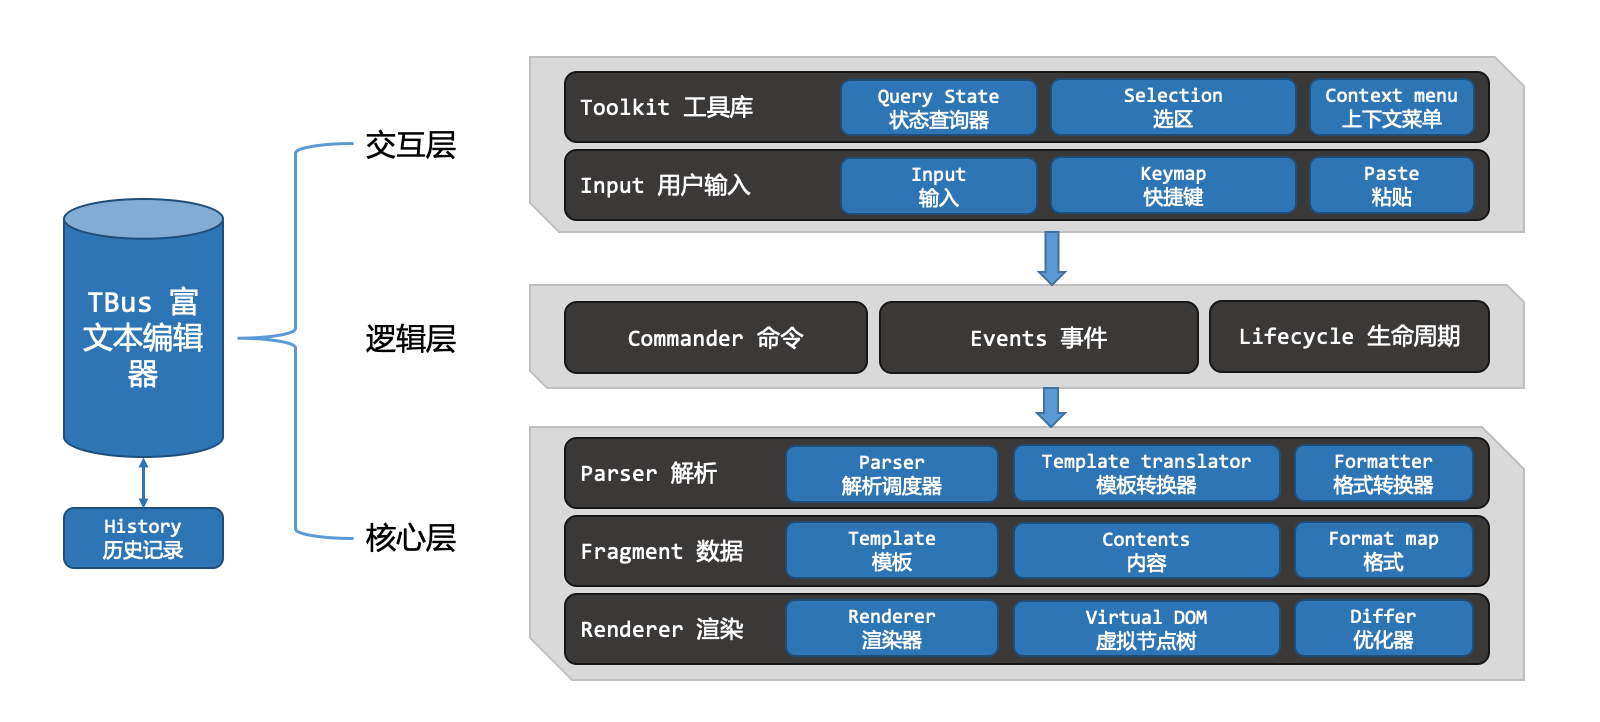
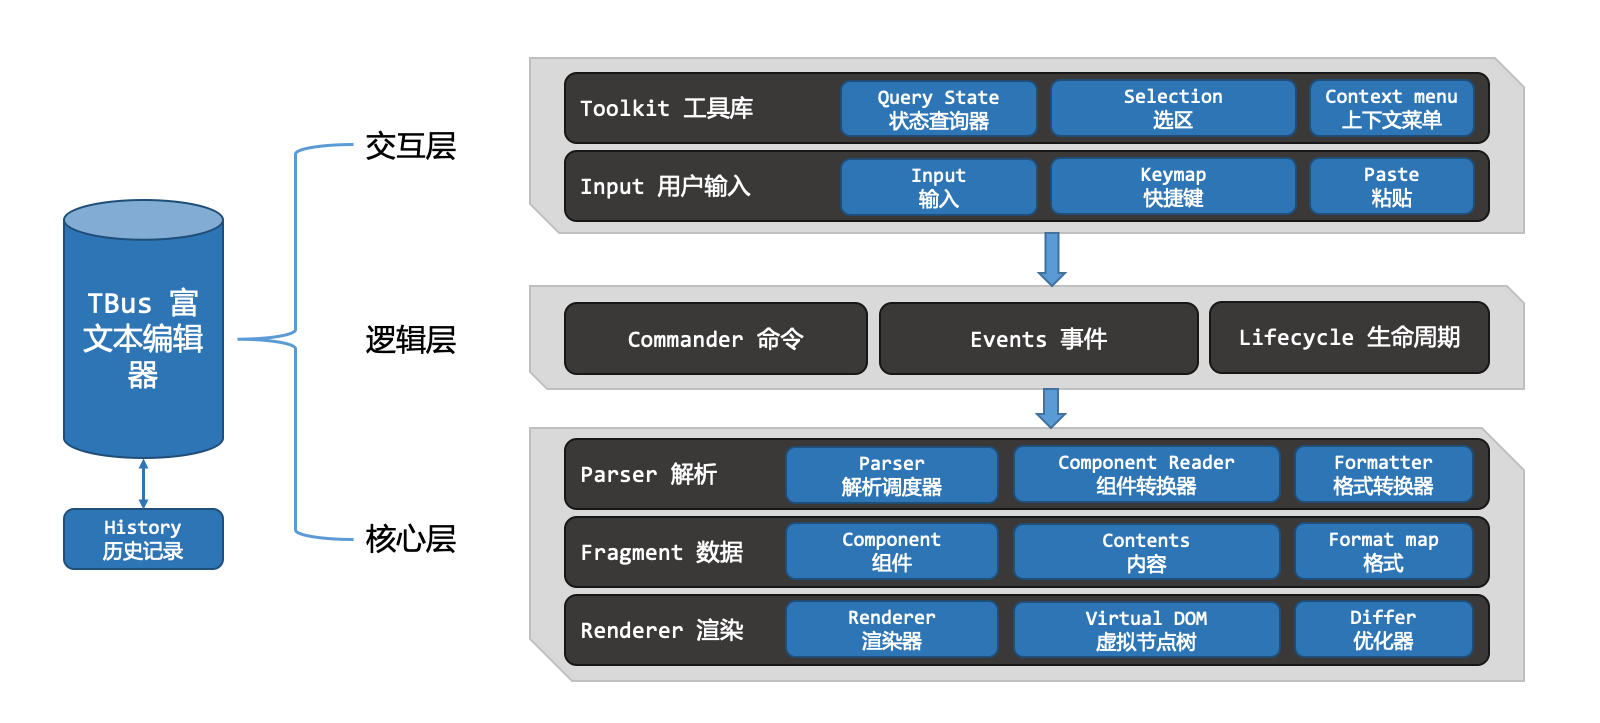
feat: 更新 TBus

diff --git a/src/pages/tbus/keywords/keywords.component.html b/src/pages/tbus/keywords/keywords.component.html
@@ -8,15 +8,15 @@
     </div>
   </div>
   <div class="ui-form-group">
-    <label class="ui-control-label ui-control-label-compact"><code>Template</code> <br><small>模板</small></label>
+    <label class="ui-control-label ui-control-label-compact"><code>Component</code> <br><small>组件</small></label>
     <div class="ui-control-static">
-      一段固定的数据结构样板，并且自已保存需要的数据，并实现根据自身的数据渲染对应虚拟 DOM 树。<br>模板必须从属于一个 <code>Fragment</code>。同时，模板也可以有任意个自己的子插槽，即 <code>Slot</code>，模板根节点与 <code>Slot</code> 之间的固定结构不可编辑，但每一个 <code>Slot</code> 都是一个可编辑的区域。
+      一段固定的数据结构样板，并且自已保存需要的数据，并实现根据自身的数据渲染对应虚拟 DOM 树。<br>组件必须从属于一个 <code>Fragment</code>。同时，组件也可以有任意个自己的子插槽，即 <code>Slot</code>，组件根节点与 <code>Slot</code> 之间的固定结构不可编辑，但每一个 <code>Slot</code> 都是一个可编辑的区域。
     </div>
   </div>
   <div class="ui-form-group">
     <label class="ui-control-label ui-control-label-compact"><code>Fragment</code> <br><small>可编辑域</small></label>
     <div class="ui-control-static">
-      <code>Fragment</code> 为一段可编辑区域，可以插入任意的模板和字符串。同时，<code>Fragment</code> 还保存了对应内容的 <code>FormatMap</code>。
+      <code>Fragment</code> 为一段可编辑区域，可以插入任意的组件和字符串。同时，<code>Fragment</code> 还保存了对应内容的 <code>FormatMap</code>。
     </div>
   </div>
   <div class="ui-form-group">
@@ -27,9 +27,9 @@
     </div>
   </div>
   <div class="ui-form-group">
-    <label class="ui-control-label ui-control-label-compact"><code>TemplateTranslator</code> <br><small>模板转换器</small></label>
+    <label class="ui-control-label ui-control-label-compact"><code>ComponentReader</code> <br><small>组件转换器</small></label>
     <div class="ui-control-static">
-      模板转换器负责把一段匹配到的 HTML 元素，转换为对应的 <code>Template</code> 实例。当我们要扩展 TBus 的结构样板时，可以自定义一个转换器，并添加在 TBus 配置项的 templateTranslators 中。<br> TBus 所有的核心模板也都是以同样方式实现的。
+      组件转换器负责把一段匹配到的 HTML 元素，转换为对应的 <code>Component</code> 实例。当我们要扩展 TBus 的结构样板时，可以自定义一个转换器，并添加在 TBus 配置项的 componentReaders 中。<br> TBus 所有的核心组件也都是以同样方式实现的。
     </div>
   </div>
   <div class="ui-form-group">
@@ -113,7 +113,7 @@
   </div>
   <div class="ui-form-group">
     <label class="ui-control-label ui-control-label-compact"><code>Renderer</code> <br><small>渲染器</small></label>
-    <div class="ui-control-static">用于渲染一段抽象数据（<code>Fragment</code>）。将 <code>Fragment</code> 生成虚拟 DOM，并对新旧两次的虚拟 DOM 树作 diff 运算，求出最小更新范围，并更新真实 DOM。<br> <code>Renderer</code> 对象还提供了一系列的查询方法，这些方法可以方便的获取 <code>Fragment</code>、<code>VDom</code>、<code>Template</code> 与真实 DOM 节点之前的关系。</div>
+    <div class="ui-control-static">用于渲染一段抽象数据（<code>Fragment</code>）。将 <code>Fragment</code> 生成虚拟 DOM，并对新旧两次的虚拟 DOM 树作 diff 运算，求出最小更新范围，并更新真实 DOM。<br> <code>Renderer</code> 对象还提供了一系列的查询方法，这些方法可以方便的获取 <code>Fragment</code>、<code>VDom</code>、<code>Component</code> 与真实 DOM 节点之前的关系。</div>
   </div>
 </div>
 

diff --git a/src/pages/tbus/tbus.component.ts b/src/pages/tbus/tbus.component.ts
@@ -27,7 +27,7 @@ export class TBusComponent implements OnInit, OnDestroy {
           return '/test';
         });
       },
-      contents: `<h1 style="text-align: center; color: rgb(16, 125, 184);">TBus&nbsp;<span style="letter-spacing: 5px;">富文本编辑器</span></h1><h4 style="text-align: center; color: rgb(73, 80, 96);">—— 基于 Typescript，轻量，易扩展 ——</h4><p style="color: rgb(73, 80, 96); font-size: 15px;">和传统富文本编辑器不同，TBus 未使用 DOM 的 contentEditable 属性，并且采用分层设计，抽象了出了&nbsp;<strong>Template</strong>（模板）+&nbsp;<strong>Fragment</strong>（片段） 数据模型、<strong>TBSelection</strong>（选区），使开发及扩展&nbsp;<strong>Commander</strong>（命令）无需关心浏览器的行为及差异，只需要关注当前的&nbsp;<strong>Contents</strong>（内容）和&nbsp;<strong>FormatRange</strong>（格式），这种高层次的抽象，使普通开发者也可以很容易的扩展出自己的功能。甚至，在富文本中实现代码高亮这样的功能，也变得很容易。</p><pre lang="Typescript"><code><span style="font-weight: bold;">import</span>&nbsp;{ createEditor }&nbsp;<span style="font-weight: bold;">from</span>&nbsp;<span style="color: rgb(221, 17, 68);">'@tanbo/tbus'</span>;<br><br><span style="font-weight: bold;">const</span>&nbsp;editor = createEditor(<span style="color: rgb(0, 134, 179);">document</span>.getElementById(<span style="color: rgb(221, 17, 68);">'editor'</span>));<br>editor.onChange.subscribe(() =&gt; {<br>&nbsp;&nbsp;<span style="font-weight: bold;">const</span>&nbsp;{contents, styleSheets} = editor.getContents();<br>&nbsp;&nbsp;<span style="color: rgb(0, 134, 179);">console</span>.log(contents, styleSheets);<br>})<br></code></pre><p><br></p>`
+      contents: `<h1 style="text-align: center; color: rgb(16, 125, 184);">TBus&nbsp;<span style="letter-spacing: 5px;">富文本编辑器</span></h1><h4 style="text-align: center; color: rgb(73, 80, 96);">—— 基于 Typescript，轻量，易扩展 ——</h4><p style="color: rgb(73, 80, 96); font-size: 15px;">和传统富文本编辑器不同，TBus 未使用 DOM 的 contentEditable 属性，并且采用分层设计，抽象了出了&nbsp;<strong>Component</strong>（组件）+&nbsp;<strong>Fragment</strong>（片段） 数据模型、<strong>TBSelection</strong>（选区），使开发及扩展&nbsp;<strong>Commander</strong>（命令）无需关心浏览器的行为及差异，只需要关注当前的&nbsp;<strong>Contents</strong>（内容）和&nbsp;<strong>FormatRange</strong>（格式），这种高层次的抽象，使普通开发者也可以很容易的扩展出自己的功能。甚至，在富文本中实现代码高亮这样的功能，也变得很容易。</p><pre lang="Typescript"><code><span style="font-weight: bold;">import</span>&nbsp;{ createEditor }&nbsp;<span style="font-weight: bold;">from</span>&nbsp;<span style="color: rgb(221, 17, 68);">'@tanbo/tbus'</span>;<br><br><span style="font-weight: bold;">const</span>&nbsp;editor = createEditor(<span style="color: rgb(0, 134, 179);">document</span>.getElementById(<span style="color: rgb(221, 17, 68);">'editor'</span>));<br>editor.onChange.subscribe(() =&gt; {<br>&nbsp;&nbsp;<span style="font-weight: bold;">const</span>&nbsp;{contents, styleSheets} = editor.getContents();<br>&nbsp;&nbsp;<span style="color: rgb(0, 134, 179);">console</span>.log(contents, styleSheets);<br>})<br></code></pre><p><br></p>`
     });
   }
 

diff --git a/src/pages/tbus/architecture/default-option.md b/src/pages/tbus/architecture/default-option.md
@@ -9,8 +9,8 @@ export interface EditorOptions {
   deviceWidth?: string;
   /** 设置最大历史栈 */
   historyStackSize?: number;
-  /** 设置模板转换器 */
-  templateTranslators?: TemplateTranslator[];
+  /** 设置组件读取转换器 */
+  componentReaders?: ComponentReader[];
   /** 设置格式转换器 */
   formatters?: Formatter[];
   /** 工具条配置 */
@@ -21,8 +21,9 @@ export interface EditorOptions {
   styleSheets?: string[];
   /** 设置初始化 TBus 时的默认内容 */
   contents?: string;
-  /** 设置可选的自定义模板 */
-  templateExamples?: TemplateExample[];
+  /** 设置可选的自定义组件 */
+  componentExamples?: ComponentExample[];
+
   /** 当某些工具需要上传资源时的调用函数，调用时会传入上传资源的类型，如 image、video、audio等，该函数返回一个字符串，作为资源的 url 地址 */
   uploader?(type: string): (string | Promise<string> | Observable<string>);
 }
